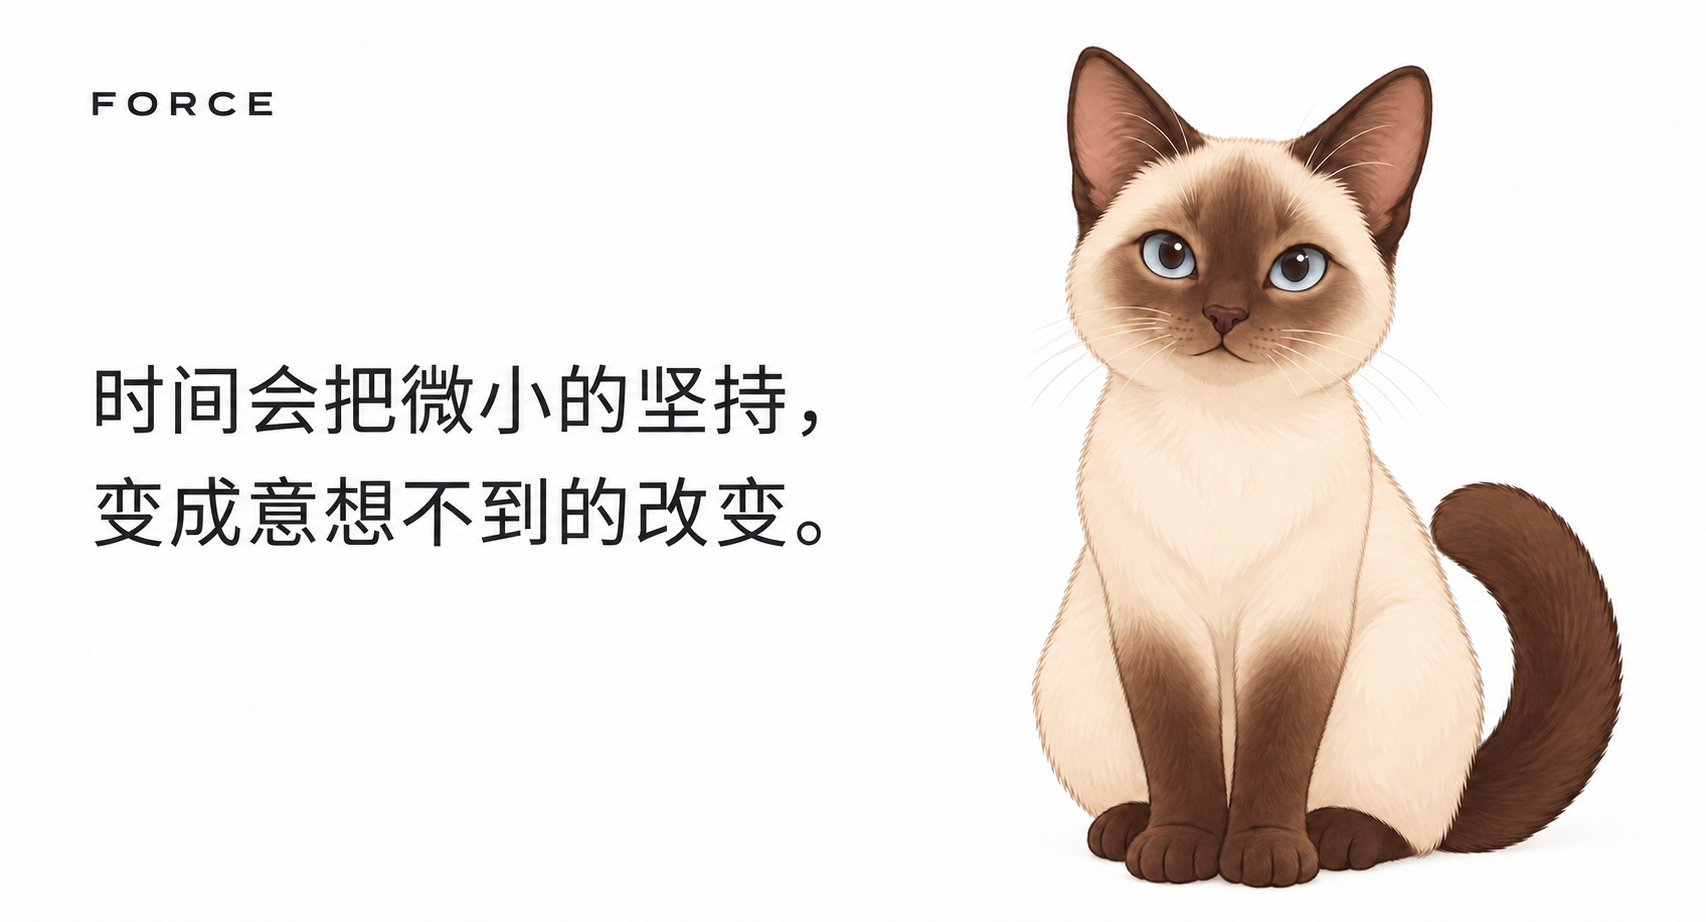
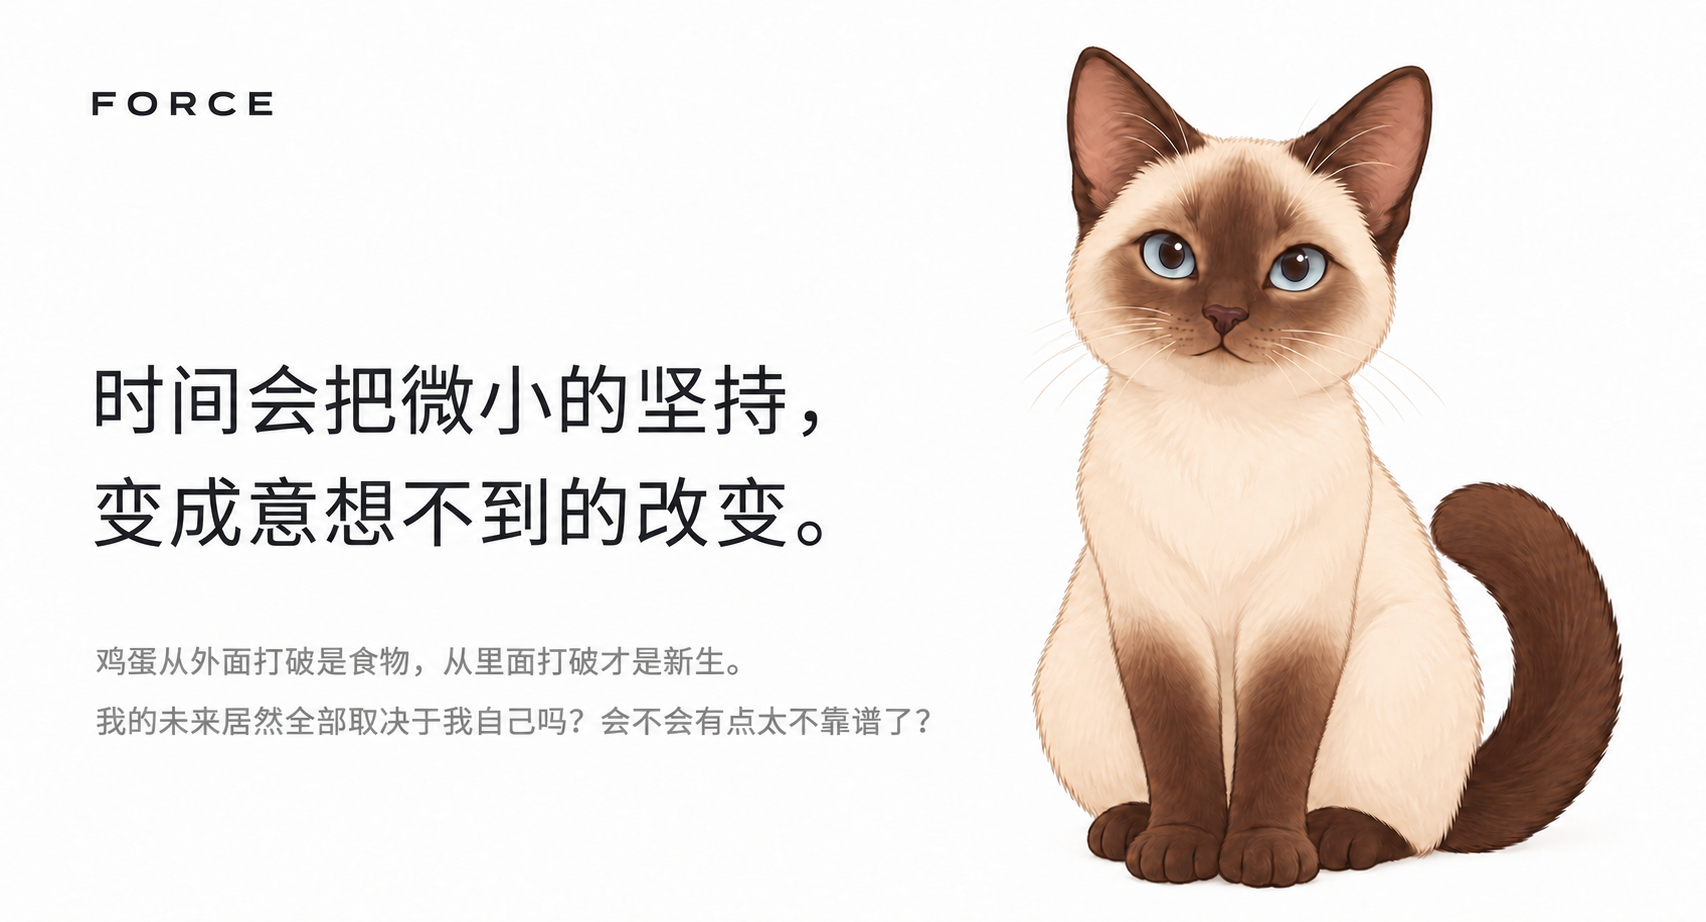
docs: add small supporting quotes to README covers

diff --git a/assets/README.md b/assets/README.md
@@ -9,7 +9,7 @@
 - `wordmark-lettering.svg`：原有 FORCE 字形路径，不依赖字体。
 - `icon.png` / `Force.icns` / `Force.ico`：头像配白色圆角底的应用图标；ICO 包含 16、32、48、256 px。
 - `cat-side-expanded-clock.svg` / `cat-side-expanded-clock-outline.svg`：独立的中性深色控制面板及轮廓，展开时不拉伸猫的身体。
-- `readme-cover.png` / `readme-cover-dark.png`：以桌面猫钟的坐姿角色为参考的封面，配两行现代黑体引句。README 不额外重复 Logo 或句子。
+- `readme-cover.png` / `readme-cover-dark.png`：以桌面猫钟的坐姿角色为参考的封面，保留两行现代黑体主标语，下方用灰色小字放置两句辅助文案。README 不额外重复 Logo 或句子。
 
 角色和封面画稿由图像生成工具制作。修改角色时更新源画稿，再运行以下命令导出应用资源：
 
@@ -18,6 +18,6 @@ swift scripts/generate-brand-assets.swift
 swift scripts/generate-icons.swift
 ```
 
-第一步统一取景与尺寸并生成字标，第二步导出平台图标；不手工重画派生图。眨眼画稿需与坐姿画稿保持相同尺寸和位置，检查眼部覆盖与计时文字在真实猫钟里的效果。封面以坐姿原稿为参考，保留短毛、脸型、灰蓝眼睛、深色前爪与右侧卷尾；不另画不同体型或笔触的猫。明暗版保持同一句文案与排版。
+第一步统一取景与尺寸并生成字标，第二步导出平台图标；不手工重画派生图。眨眼画稿需与坐姿画稿保持相同尺寸和位置，检查眼部覆盖与计时文字在真实猫钟里的效果。封面以坐姿原稿为参考，保留短毛、脸型、灰蓝眼睛、深色前爪与右侧卷尾；不另画不同体型或笔触的猫。明暗版保持相同的主标语、辅助小字与排版；辅助文案不得替换或抢占主标语。
 
 README 明暗图片通过链接上的 `#gh-light-mode-only` / `#gh-dark-mode-only` 跟随 GitHub 页面主题。验收需覆盖系统主题与 GitHub 主题相反的组合；仅检查本地 `prefers-color-scheme` 不能证明 GitHub 显示正确。

diff --git a/README.md b/README.md
@@ -1,8 +1,8 @@
 <p align="center">
   <a href="assets/readme-cover.png#gh-light-mode-only">
-    <img src="assets/readme-cover.png" width="100%" alt="Force — 时间会把微小的坚持，变成意想不到的改变。一只奶油色短毛、灰蓝眼睛的坐姿暹罗猫。" />
+    <img src="assets/readme-cover.png" width="100%" alt="Force — 时间会把微小的坚持，变成意想不到的改变。下方小字：鸡蛋从外面打破是食物，从里面打破才是新生。我的未来居然全部取决于我自己吗？会不会有点太不靠谱了？右侧是一只奶油色短毛、灰蓝眼睛的坐姿暹罗猫。" />
   </a>
   <a href="assets/readme-cover-dark.png#gh-dark-mode-only">
-    <img src="assets/readme-cover-dark.png" width="100%" alt="Force — 时间会把微小的坚持，变成意想不到的改变。一只奶油色短毛、灰蓝眼睛的坐姿暹罗猫。" />
+    <img src="assets/readme-cover-dark.png" width="100%" alt="Force — 时间会把微小的坚持，变成意想不到的改变。下方小字：鸡蛋从外面打破是食物，从里面打破才是新生。我的未来居然全部取决于我自己吗？会不会有点太不靠谱了？右侧是一只奶油色短毛、灰蓝眼睛的坐姿暹罗猫。" />
   </a>
 </p>
